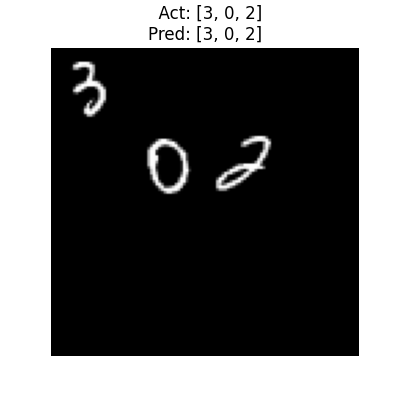
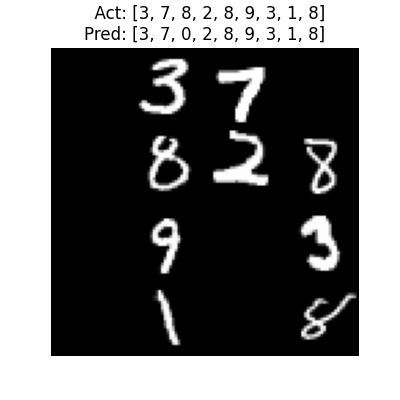
parameter updates based on sweep optimum

diff --git a/prod/app.py b/prod/app.py
@@ -1,0 +1,123 @@
+import streamlit as st
+from streamlit_drawable_canvas import st_canvas
+import torch
+import numpy as np
+from PIL import Image
+
+import sys
+import os
+sys.path.append(os.path.abspath(os.path.join(os.path.dirname(__file__), '..')))
+
+from encoder_decoder import CustomTransformerEncoderDecoder, create_image_patches
+
+# Load the trained model
+@st.cache_resource
+def load_model():
+    model_path = os.path.abspath(os.path.join(os.path.dirname(__file__), '../best_model_768D.pth'))
+    device = torch.device("cuda" if torch.cuda.is_available() else "cpu")
+    config = {
+        'learning_rate': 1e-4,
+        'min_lr': 5e-7,
+        'weight_decay': 0.01,
+        'epochs': 25,
+        'batch_size': 128,
+        'num_heads': 8,
+        'emb_dim': 1024,
+        'ff_hidden_dim': 128,
+        'num_encoder_layers': 8,
+        'num_decoder_layers': 8,
+        'num_classes': 13,  # 10 digits + start/stop tokens
+        'max_seq_length': 12,
+        'patch_dim': 196,  # 14x14 pixel patches
+        'num_patches': 64   # each image is 4x4 sub images each with 2x2 patches of 14x14 pixels
+    }
+    model = CustomTransformerEncoderDecoder(
+        patch_dim=config['patch_dim'],        # 196
+        emb_dim=config['emb_dim'],           # 256
+        num_heads=config['num_heads'],        # 8
+        ff_hidden_dim=config['ff_hidden_dim'],# 512
+        num_encoder_layers=config['num_encoder_layers'],
+        num_decoder_layers=config['num_decoder_layers'],
+        num_classes=config['num_classes'],    # 13
+        num_patches=config['num_patches'],    # 64 (matches your input)
+        max_seq_length=config['max_seq_length'] # 12 (matches label sequence length)
+    )
+    checkpoint = torch.load(model_path, map_location=device)
+    model.load_state_dict(checkpoint['model_state_dict'])
+    model.to(device)
+    model.eval()
+    return model, device
+
+model, device = load_model()
+
+# Streamlit app
+st.title("Digit Sequence Prediction")
+st.write("Draw digits on the canvas below and submit to get predictions.")
+
+# Create two columns: left for canvas, right for predictions
+col1, col2 = st.columns([2, 1])  # Adjust column width ratio as needed
+
+with col1:
+    # Canvas for user input
+    canvas_result = st_canvas(
+        fill_color="white",  # Background color
+        stroke_width=10,
+        stroke_color="white",
+        background_color="black",
+        width=448,  # Larger canvas for easier drawing
+        height=448,
+        drawing_mode="freedraw",
+        key="canvas",
+    )
+
+with col2:
+    st.write("### Prediction Results")
+    submit = st.button("Submit")
+
+if submit:
+    if canvas_result.image_data is not None:
+        # Convert canvas image (numpy RGBA) to proper PIL image
+        rgba = Image.fromarray(canvas_result.image_data.astype('uint8'), 'RGBA')
+        rgb = rgba.convert('RGB')
+        gray = rgb.convert('L')  # Convert to grayscale
+
+        # Resize to 112x112 using NEAREST to preserve stroke shape
+        resized = gray.resize((112, 112), resample=Image.NEAREST)
+
+        # Display the resized image in the left column
+        #with col1:
+        #    st.write("### Resized Image (112x112):")
+        #    st.image(resized, caption="Resized Image (Input to Model)", width=224)
+
+        # Convert to array and normalize
+        img_array = np.array(resized) / 255.0  # Values in [0, 1]
+
+        # Convert to PyTorch tensor and reshape
+        img_tensor = torch.tensor(img_array, dtype=torch.float32).unsqueeze(0).unsqueeze(0)  # Shape: [1, 1, 112, 112]
+
+        # Create patches
+        patches = create_image_patches(img_tensor, patch_size=14)
+        patches = torch.tensor(patches, dtype=torch.float32).unsqueeze(0).to(device)
+
+        # Prepare input for the decoder
+        tgt_input = torch.tensor([[10]], dtype=torch.long).to(device)  # START token
+
+        # Predict sequence
+        with torch.no_grad():
+            for _ in range(12):  # Maximum sequence length
+                output = model(patches, tgt_input)
+                next_token = output[:, -1, :].argmax(dim=-1)
+                tgt_input = torch.cat([tgt_input, next_token.unsqueeze(0)], dim=1)
+                if next_token.item() == 11:  # STOP token
+                    break
+
+        # Decode the predicted sequence
+        predicted_sequence = tgt_input.squeeze().tolist()[1:]  # Remove START token
+        readable_sequence = [str(token) if token < 10 else "STOP" for token in predicted_sequence]
+
+        # Display the result in the right column
+        with col2:
+            st.write("### Predicted Sequence:")
+            st.write(" → ".join(readable_sequence))
+    else:
+        st.warning("Please draw something on the canvas before submitting.")

diff --git a/encoder_decoder/main.py b/encoder_decoder/main.py
@@ -104,7 +104,7 @@ def train_model(model, train_loader, val_loader, config, save_path='best_model.p
         entity="emilengdahl",
         project="ImageTransformer",
         config=config,
-        name=run_name, reinit=True, id=None
+        name=run_name, id=None, resume="allow"
     )
     
     # Setup training
@@ -157,7 +157,7 @@ def train_model(model, train_loader, val_loader, config, save_path='best_model.p
 
             best_val_loss = val_loss
             artifact = wandb.Artifact('best-model', type='model')
-            artifact.add_file('best_model.pth')
+            artifact.add_file(save_path)
             wandb.log_artifact(artifact)
         
         print(f'Epoch {epoch}: Train Loss = {train_loss:.4f}, Val Loss = {val_loss:.4f}, Val Accuracy = {val_accuracy:.4f}')
@@ -237,20 +237,20 @@ def main():
     
     # config for training
     config = {
-        'learning_rate': 1e-3,
+        'learning_rate': 1e-4,
         'min_lr': 5e-7,
         'weight_decay': 0.01,
         'epochs': 25,
-        'batch_size': 512,
+        'batch_size': 128,
         'num_heads': 8,
-        'emb_dim': 2048,
-        'ff_hidden_dim': 256,
-        'num_encoder_layers': 6,
-        'num_decoder_layers': 6,
-        'patch_dim': 49,  # 7x7 pixel patches
+        'emb_dim': 1024,
+        'ff_hidden_dim': 128,
+        'num_encoder_layers': 8,
+        'num_decoder_layers': 8,
         'num_classes': 13,  # 10 digits + start/stop tokens
         'max_seq_length': 12,
-        'num_patches': 256   # each image is 4x4 sub images each with 4x4 patches of 7x7 pixels
+        'patch_dim': 196,  # 14x14 pixel patches
+        'num_patches': 64   # each image is 4x4 sub images each with 2x2 patches of 14x14 pixels
     }
 
     # Load data

diff --git a/encoder_decoder/data_prep.py b/encoder_decoder/data_prep.py
@@ -16,7 +16,7 @@ class GridMNISTDataset(Dataset):
         self.max_digits = max_digits
 
     def __len__(self):
-        return len(self.mnist) // (self.max_digits // 2)
+        return len(self.mnist) // 3 # // (self.max_digits // 2)
 
     def __getitem__(self, idx):
         canvas = torch.zeros(1, self.canvas_size, self.canvas_size)
@@ -57,7 +57,7 @@ def create_image_patches(image, patch_size=14):
     return patches
 
 
-def collate_fn(batch, patch_size=7):
+def collate_fn(batch, patch_size=14):
     images = [item[0] for item in batch]
     labels = [item[1] for item in batch]
     patch_list = [create_image_patches(image, patch_size) for image in images]

diff --git a/encoder_decoder/__init__.py b/encoder_decoder/__init__.py
@@ -1,0 +1,4 @@
+from .model import CustomTransformerEncoderDecoder
+from .data_prep import create_image_patches
+
+__all__ = ["CustomTransformerEncoderDecoder", "create_image_patches"]
